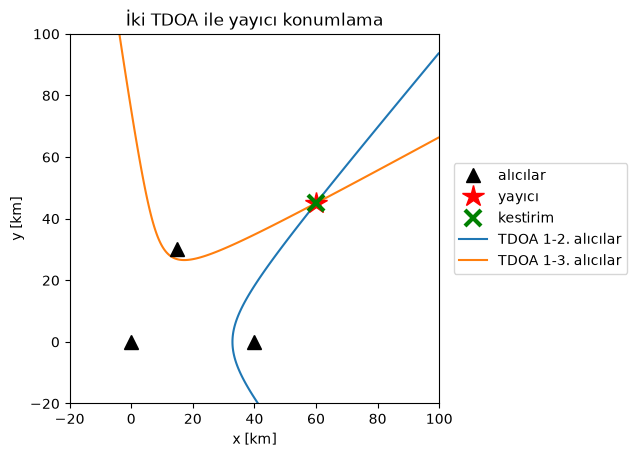
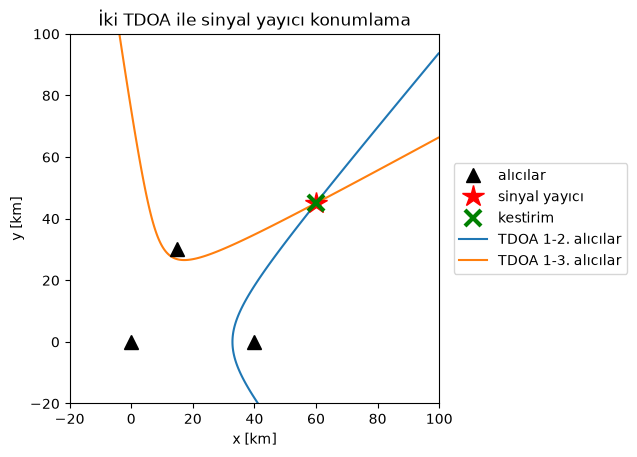
Use 'sinyal yayıcı' instead of 'yayıcı' in Turkish thesis project
Rename the post to proje-sinyal-yayici-... with a redirect from the old
URL, and regenerate the Turkish location figure with the new label.

Changed region(s): [[0.1491, 0.0306, 0.6562, 0.0613], [0.7755, 0.3982, 0.9246, 0.4595]]

diff --git a/_posts/2024-05-01-proje-sinyal-yayici-konumlama-icin-uyarlanir-sikistirma.md b/_posts/2024-05-01-proje-sinyal-yayici-konumlama-icin-uyarlanir-sikistirma.md
@@ -1,20 +1,21 @@
 ---
 layout: post
-title: Proje - Kablosuz Algılayıcı Ağlarında Yayıcı Konumlama için Uyarlanır Sıkıştırma
+title: Proje - Kablosuz Algılayıcı Ağlarında Sinyal Yayıcı Konumlama için Uyarlanır Sıkıştırma
 excerpt: "Bir radarın yerini algılayıcılar arasındaki varış zamanı farkıyla bulmak ve algılayıcıların paylaşması gereken veriyi konum doğruluğunu kaybetmeden sıkıştırmak: dinamik programlama ve Lagrange çarpanlarıyla optimal bit dağıtımı. Yüksek lisans tezime dayanıyor."
-tags: [proje, tdoa, yayıcı konumlama, veri sıkıştırma, bit dağıtımı, lagrange çarpanları, dinamik programlama, dsp]
+tags: [proje, tdoa, sinyal yayıcı konumlama, veri sıkıştırma, bit dağıtımı, lagrange çarpanları, dinamik programlama, dsp]
 comments: true
 feature: https://i.imgur.com/Ds6S7lJ.png
 lang: tr
 ref: proj-tdoa-compression
+redirect_from: /proje-yayici-konumlama-icin-uyarlanir-sikistirma/
 project: true
 ---
 
 Emre: Göremediğin bir radarın yerini sadece yaydığı sinyali kullanarak nasıl bulabilirsin?
 
-Kaan: Onu aynı anda birkaç farklı yerden dinleyerek. Bu proje, Prof. Mark L. Fowler'ın danışmanlığında yazdığım *Adaptive Compression Method for Emitter Location in Wireless Sensor Networks* (Binghamton University, State University of New York, 2004) başlıklı yüksek lisans tezime dayanıyor. Tez, doğrudan onun yayıcı konumlama için veri sıkıştırma üzerine çalışmalarının üzerine kurulu. Her şeyi sentetik radar sinyalleriyle Python'da yeniden yazdım, böylece her adımı kendin çalıştırabilirsin.
+Kaan: Onu aynı anda birkaç farklı yerden dinleyerek. Bu proje, Prof. Mark L. Fowler'ın danışmanlığında yazdığım *Adaptive Compression Method for Emitter Location in Wireless Sensor Networks* (Binghamton University, State University of New York, 2004) başlıklı yüksek lisans tezime dayanıyor. Tez, doğrudan onun sinyal yayıcı konumlama için veri sıkıştırma üzerine çalışmalarının üzerine kurulu. Her şeyi sentetik radar sinyalleriyle Python'da yeniden yazdım, böylece her adımı kendin çalıştırabilirsin.
 
-## Problem - Bir Yayıcının Yerini Bulmak
+## Problem - Bir Sinyal Yayıcının Yerini Bulmak
 
 Bir radarın bilinmeyen bir konumdan yayın yaptığını ve konumları bilinen birkaç uçakta (ya da yer algılayıcısında) alıcılarımız olduğunu varsayalım. Tüm alıcılar aynı darbeyi yakalar ama her biri biraz farklı bir anda, çünkü darbe her birine farklı bir mesafe kat ederek ulaşır.
 
@@ -26,13 +27,13 @@ $$
 $$
 </div>
 
-olur. Burada $$\mathbf{p}$$ yayıcının konumu, $$\mathbf{r}_i$$ $$i$$. alıcının konumu, $$c$$ ise ışık hızıdır. Darbenin ne zaman yayıldığını bilmemize gerek olmadığına dikkat et: farkta sadeleşip gidiyor.
+olur. Burada $$\mathbf{p}$$ sinyal yayıcının konumu, $$\mathbf{r}_i$$ $$i$$. alıcının konumu, $$c$$ ise ışık hızıdır. Darbenin ne zaman yayıldığını bilmemize gerek olmadığına dikkat et: farkta sadeleşip gidiyor.
 
 Emre: Ama tek bir denklem bize bir konum veremez ki.
 
-Kaan: Doğru. Tek bir TDOA bize iki alıcıya olan uzaklıkların farkının sabit olduğunu söyler ve iki sabit noktaya olan uzaklıklarının farkı sabit olan noktaların kümesi bir **hiperboldür** (3 boyutta hiperboloid). Yani her TDOA yayıcıyı bir hiperbolün üzerine yerleştirir. Bir düzlemde üç alıcıyla iki bağımsız TDOA, yani iki hiperbol elde ederiz. Yayıcı onların kesiştiği yerdedir. 3 boyutta dördüncü bir alıcıya ya da **varış frekansı farkına (frequency difference of arrival - FDOA)** ihtiyacımız var: alıcılar hareket ediyorsa Doppler kayması her alıcıda farklıdır ve frekans farkı bize bir denklem daha verir.
+Kaan: Doğru. Tek bir TDOA bize iki alıcıya olan uzaklıkların farkının sabit olduğunu söyler ve iki sabit noktaya olan uzaklıklarının farkı sabit olan noktaların kümesi bir **hiperboldür** (3 boyutta hiperboloid). Yani her TDOA sinyal yayıcıyı bir hiperbolün üzerine yerleştirir. Bir düzlemde üç alıcıyla iki bağımsız TDOA, yani iki hiperbol elde ederiz. Sinyal yayıcı onların kesiştiği yerdedir. 3 boyutta dördüncü bir alıcıya ya da **varış frekansı farkına (frequency difference of arrival - FDOA)** ihtiyacımız var: alıcılar hareket ediyorsa Doppler kayması her alıcıda farklıdır ve frekans farkı bize bir denklem daha verir.
 
-Bunu birbirinden 40 km uzaktaki üç alıcı ve yaklaşık 75 km uzakta bir yayıcıyla görelim. TDOA'lar 20 ns hatayla ölçülüyor ve konumu iki hiperbol denklemini doğrusal olmayan en küçük karelerle çözerek buluyoruz.
+Bunu birbirinden 40 km uzaktaki üç alıcı ve yaklaşık 75 km uzakta bir sinyal yayıcıyla görelim. TDOA'lar 20 ns hatayla ölçülüyor ve konumu iki hiperbol denklemini doğrusal olmayan en küçük karelerle çözerek buluyoruz.
 
 ```python
 import numpy as np
@@ -43,10 +44,10 @@ rng = np.random.default_rng(3) # sonuclar tekrarlanabilir olsun diye rasgele say
 c = 3e8  # isik hizi [m/s]
 
 receivers = np.array([[0, 0], [40e3, 0], [15e3, 30e3]])  # uc alici [m]
-emitter = np.array([60e3, 45e3])                          # bilinmeyen yayici [m]
+emitter = np.array([60e3, 45e3])                          # bilinmeyen sinyal yayici [m]
 
 def tdoas(p):
-    """p konumundaki bir yayici icin 2. ve 3. alicilarin 1. aliciya gore TDOA'lari."""
+    """p konumundaki bir sinyal yayici icin 2. ve 3. alicilarin 1. aliciya gore TDOA'lari."""
     d = np.linalg.norm(receivers - p, axis=1)
     return (d[1:] - d[0]) / c
 
@@ -64,12 +65,12 @@ d = [np.hypot(x - rx, y - ry) for rx, ry in receivers]
 plt.contour(x / 1e3, y / 1e3, (d[1] - d[0]) / c - measured[0], [0], colors='tab:blue')
 plt.contour(x / 1e3, y / 1e3, (d[2] - d[0]) / c - measured[1], [0], colors='tab:orange')
 plt.plot(*receivers.T / 1e3, 'k^', ms=10, label='alıcılar')
-plt.plot(*emitter / 1e3, 'r*', ms=16, label='yayıcı')
+plt.plot(*emitter / 1e3, 'r*', ms=16, label='sinyal yayıcı')
 plt.plot(*estimate / 1e3, 'gx', ms=12, mew=3, label='kestirim')
 plt.plot([], [], color='tab:blue', label='TDOA 1-2. alıcılar')
 plt.plot([], [], color='tab:orange', label='TDOA 1-3. alıcılar')
 plt.xlabel('x [km]'); plt.ylabel('y [km]')
-plt.title('İki TDOA ile yayıcı konumlama')
+plt.title('İki TDOA ile sinyal yayıcı konumlama')
 plt.legend(loc='center left', bbox_to_anchor=(1.02, 0.5)); plt.gca().set_aspect('equal')
 plt.show()
 ```
@@ -82,7 +83,7 @@ Konum hatasi: 68.1 m
 <img src="/images/proj_tdoa_location.png" width="60%" height="60%">
 </p>
 
-İki hiperbol yayıcıda kesişiyor ve kestirim yaklaşık 70 metre uzakta. Bunun ne kadar hassas olduğuna dikkat et: ışık 20 ns'de sadece 6 m yol alır, ama alıcılardan uzakta hiperboller birbirini dar bir açıyla keser, bu yüzden birindeki küçük bir hata kesişim noktasını çok kaydırır (buna geometrik hassasiyet seyrelmesi, geometric dilution of precision, denir). TDOA hatasının her nanosaniyesi önemli: konum doğruluğu ancak TDOA doğruluğu kadar iyidir.
+İki hiperbol sinyal yayıcıda kesişiyor ve kestirim yaklaşık 70 metre uzakta. Bunun ne kadar hassas olduğuna dikkat et: ışık 20 ns'de sadece 6 m yol alır, ama alıcılardan uzakta hiperboller birbirini dar bir açıyla keser, bu yüzden birindeki küçük bir hata kesişim noktasını çok kaydırır (buna geometrik hassasiyet seyrelmesi, geometric dilution of precision, denir). TDOA hatasının her nanosaniyesi önemli: konum doğruluğu ancak TDOA doğruluğu kadar iyidir.
 
 ## TDOA'yı Ölçmek
 
@@ -202,7 +203,7 @@ Kestiricimiz Cramér–Rao sınırına ulaşıyor (aradaki küçük fark istatis
 
 Emre: Kayıplı sıkıştırma her yerde. Standart bir yöntem kullanamaz mıyız?
 
-Kaan: Standart yöntemler orijinal sinyalle yeniden oluşturulan sinyal arasındaki **ortalama karesel hatayı (MSE)** minimize eder: sinyalin aynı *görünmesini* sağlamaya çalışırlar. Ama bu sinyale kimse bakmayacak. Onu bir makine bir TDOA kestirmek için kullanacak, bu yüzden doğru kalite ölçüsü sıkıştırmanın TDOA doğruluğuna ne kadar zarar verdiğidir. Prof. Fowler'ın çalışmalarının çıkış noktası da buydu: MSE, yayıcı konumlama için yanlış bozulma ölçüsüdür.
+Kaan: Standart yöntemler orijinal sinyalle yeniden oluşturulan sinyal arasındaki **ortalama karesel hatayı (MSE)** minimize eder: sinyalin aynı *görünmesini* sağlamaya çalışırlar. Ama bu sinyale kimse bakmayacak. Onu bir makine bir TDOA kestirmek için kullanacak, bu yüzden doğru kalite ölçüsü sıkıştırmanın TDOA doğruluğuna ne kadar zarar verdiğidir. Prof. Fowler'ın çalışmalarının çıkış noktası da buydu: MSE, sinyal yayıcı konumlama için yanlış bozulma ölçüsüdür.
 
 Cramér–Rao sınırına tekrar bak. Sıkıştırma doğruluğa iki şekilde zarar verebilir:
 
